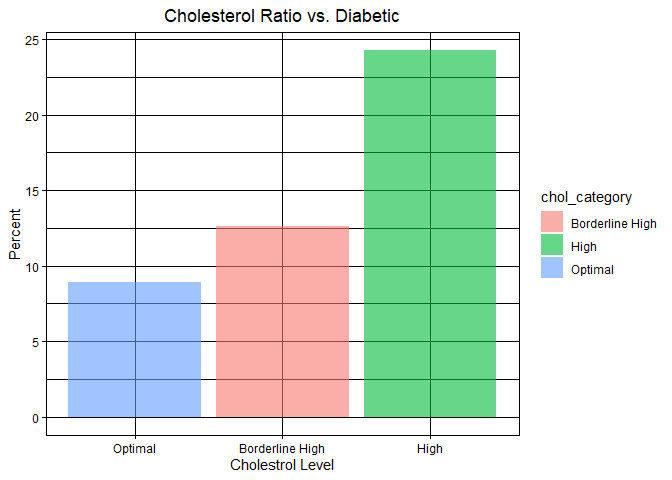
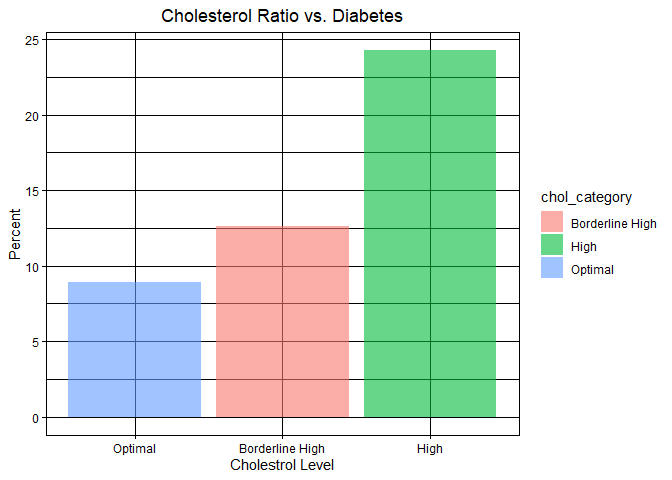
update

Changed region(s): [[0.2188, 0.0, 0.5938, 0.0625]]

diff --git a/Kellie Liu/diabetes.html b/Kellie Liu/diabetes.html
@@ -610,12 +610,12 @@ age_diabetes</code></pre>
   ggplot(aes(x=chol_category, y=diabetic_per, fill = chol_category))+
   geom_col(alpha=0.6, position=&quot;dodge&quot;)+
   theme_linedraw()+
-  labs(title=&quot;Cholesterol Ratio vs. Diabetic&quot;,
+  labs(title=&quot;Cholesterol Ratio vs. Diabetes&quot;,
        x=&quot;Cholestrol Level&quot;,
        y=&quot;Percent&quot;)+
   scale_x_discrete(limits=c(&quot;Optimal&quot;, &quot;Borderline High&quot;, &quot;High&quot;))+
   theme(plot.title = element_text(hjust = 0.5))</code></pre>
[2 lines of base64/hex data omitted]
 </div>
 <div id="cholesterol-ratio-vs.-diabetes-with-gender" class="section level2">
 <h2>Cholesterol Ratio vs. Diabetes with Gender</h2>

diff --git a/Kellie Liu/diabetes.md b/Kellie Liu/diabetes.md
@@ -317,7 +317,7 @@ diabetes %>%
   ggplot(aes(x=chol_category, y=diabetic_per, fill = chol_category))+
   geom_col(alpha=0.6, position="dodge")+
   theme_linedraw()+
-  labs(title="Cholesterol Ratio vs. Diabetic",
+  labs(title="Cholesterol Ratio vs. Diabetes",
        x="Cholestrol Level",
        y="Percent")+
   scale_x_discrete(limits=c("Optimal", "Borderline High", "High"))+
